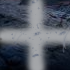
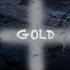
print win when path card hits gold

Changed region(s): [[0.2286, 0.4, 0.6571, 0.5714], [0.6571, 0.4286, 0.7714, 0.5714]]

diff --git a/src/view/GameView.java b/src/view/GameView.java
@@ -89,7 +89,7 @@ public class  GameView {
 						boardGrid.add(pic, i, k);
 						break;
 					case "gold":
-						Image goldImage = new Image("/resources/images/board/goal.png");
+						Image goldImage = new Image("/resources/images/board/gold.png");
 						ImageView goldPic = new ImageView();
 						goldPic.setFitWidth(60);
 						goldPic.setFitHeight(60);
@@ -97,7 +97,7 @@ public class  GameView {
 						boardGrid.add(goldPic, i, k);
 						break;
 					case "stone":
-						Image coalimage = new Image("/resources/images/board/goal.png");
+						Image coalimage = new Image("/resources/images/board/coal.png");
 						ImageView coalPic = new ImageView();
 						coalPic.setFitWidth(60);
 						coalPic.setFitHeight(60);
@@ -308,8 +308,8 @@ public class  GameView {
 			
 			if (dropLocation == "board") {
 				
-				Integer rowIndex = GridPane.getColumnIndex(source);
-				Integer colIndex = GridPane.getRowIndex(source);
+				Integer rowIndex = GridPane.getRowIndex(source);
+				Integer colIndex = GridPane.getColumnIndex(source);
 				if(dropListener.drop(event, currentPlayer, draggedCardIndex, target, rowIndex, colIndex) == true) {
 					
 					nextTurn();

diff --git a/src/controller/ActionCardValidator.java b/src/controller/ActionCardValidator.java
@@ -138,5 +138,54 @@ public class ActionCardValidator {
 		return validated;
 
 	}
+	
+	public boolean checkWin(int row, int col) {
+				
+		//check if square to the right is gold
+		if (col < 6 && Board.getInstance().getCard(row, col+1) != null) { 
+			if (Board.getInstance().getCard(row, col+1).getName() == "gold") {
+				
+				return true;
+				
+			}
+			
+		}
+		
+		//check if square to the left is gold
+		if (col > 0 && Board.getInstance().getCard(row, col-1) != null) { 
+			
+			if (Board.getInstance().getCard(row, col-1).getName() == "gold") {
+				
+				return true;
+				
+			}
+			
+		}
+		
+		//check if square to the top is gold
+		if (row > 0 && Board.getInstance().getCard(row-1, col) != null) { 
+						
+			if (Board.getInstance().getCard(row-1, col).getName() == "gold") {
+				
+				return true;
+				
+			}
+			
+		}
+		
+		//check if square to the bottom is gold
+		if (row < 7 && Board.getInstance().getCard(row+1, col) != null) { 
+			
+			if (Board.getInstance().getCard(row+1, col).getName() == "gold") {
+				
+				return true;
+				
+			}
+			
+		}
+		
+		return false;
+		
+	}
 
 }

diff --git a/src/controller/DropListener.java b/src/controller/DropListener.java
@@ -38,7 +38,7 @@ public class DropListener {
 
 			if (event.getGestureSource() != target) {
 
-				Board.getInstance().playCard(col,row, currentPlayer.getHand().getCards().get(draggedCardIndex));
+				Board.getInstance().playCard(row,col, currentPlayer.getHand().getCards().get(draggedCardIndex));
 
 
 				//if the dragged card is a path card, get the correct rotation and image
@@ -50,6 +50,15 @@ public class DropListener {
 					target.setImage(image);
 					currentPlayer.getHand().discardCard(draggedCardIndex);
 					deal.drawCard(currentPlayer);
+					
+					if(validator.checkWin(row, col)) {
+						
+						System.out.println("Win!");
+						
+					}
+					
+					else System.out.println("try again");
+					
 					return true;
 
 				}

diff --git a/src/model/Board.java b/src/model/Board.java
@@ -57,7 +57,7 @@ public class Board {
 	 * 
 	 */
     public void playCard(int row, int column, Card cardType) {
-    	assert 0 < row;
+    	assert 0 <= row;
 		assert row < Board.getInstance().getRows();
 		assert 0 <= column;
 		assert column < Board.getInstance().getCols();
